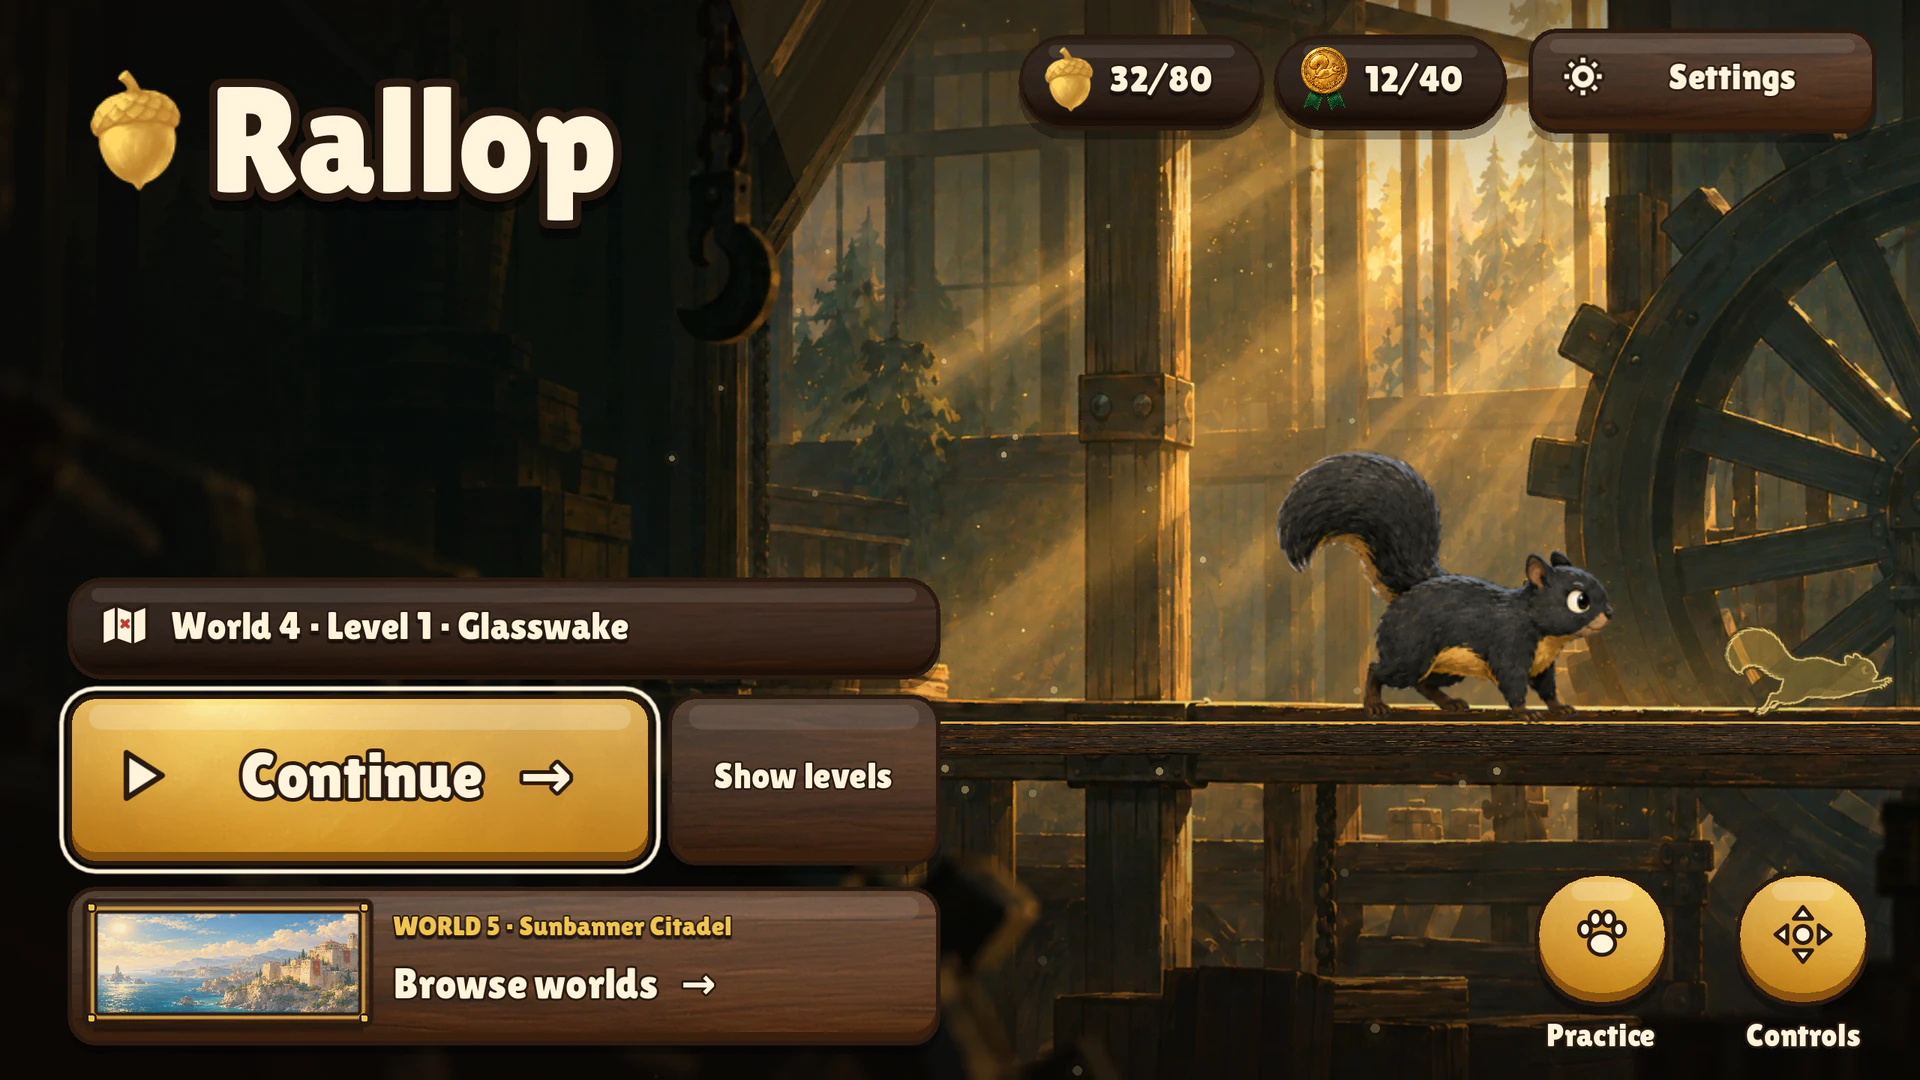
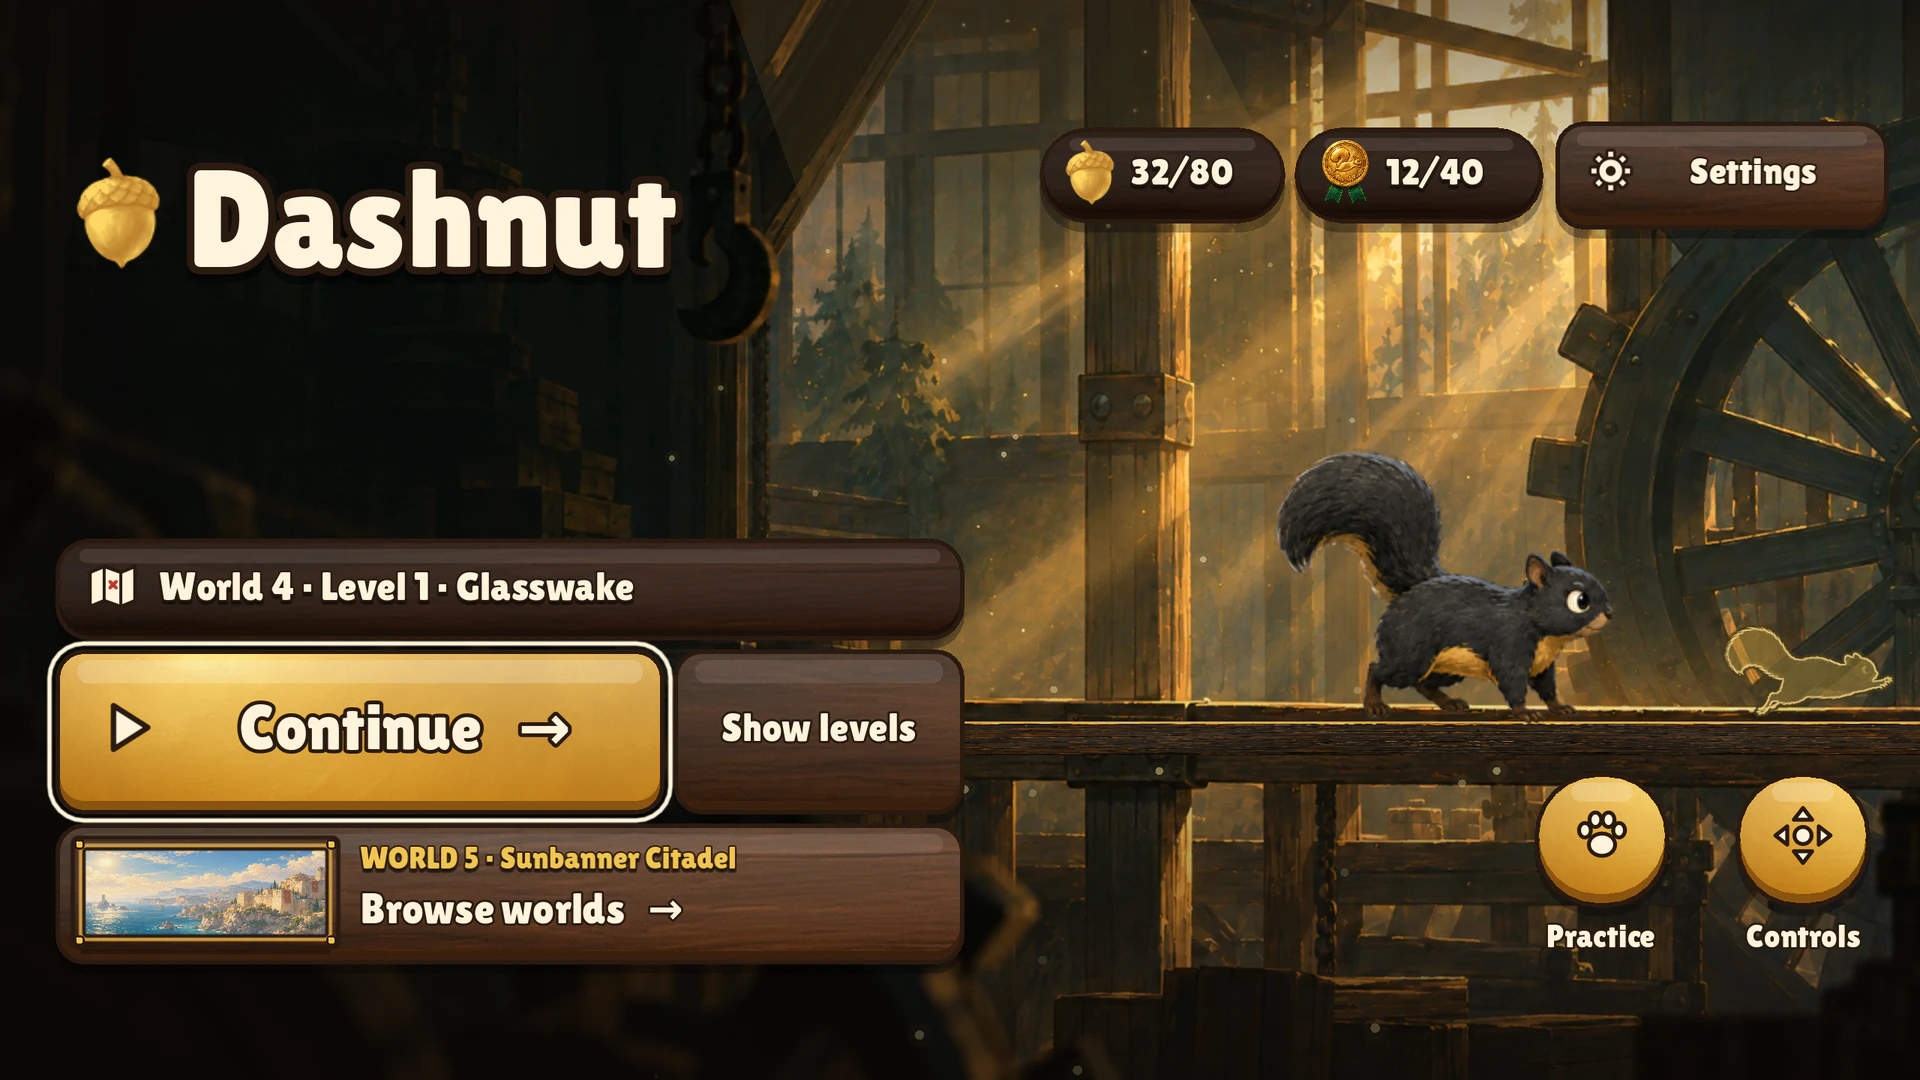
Rename the game from Rallop to Dashnut and add a proprietary license
Swaps the name in the site copy outputs (messages rebuilt), legal texts,
prompts, fact sheet, docs, site facts, manifest, Worker name, placeholder
domains and package ID. The title screenshot is recaptured with the new
logo. LICENSE.md matches the game repo's all rights reserved license.

diff --git a/src/lib/site.ts b/src/lib/site.ts
@@ -2,7 +2,7 @@
  * Facts about the game and its publisher, shared by every page (names and addresses, not copy; copy lives in messages/).
  * Keep in sync with docs/copy/FACTS.md and the legal texts in src/content/legal/.
  */
-export const GAME_NAME = 'Rallop';
+export const GAME_NAME = 'Dashnut';
 
 /** Public contact for support, privacy requests and the imprint */
 export const CONTACT_EMAIL = 'business@solo-stack.dev';
@@ -14,7 +14,7 @@ export const STUDIO = { name: 'Solo Stack', url: 'https://solo-stack.dev' } as c
 
 /**
  * Store listings. `null` until the game is live: the badges then render as "coming soon" without a link.
- * Google Play: https://play.google.com/store/apps/details?id=com.rallop.game (package `com.rallop.game`)
+ * Google Play: https://play.google.com/store/apps/details?id=com.dashnut.game (package `com.dashnut.game`)
  * App Store: https://apps.apple.com/app/id<numeric id>
  */
 export const STORE_URLS: { googlePlay: string | null; appStore: string | null } = {

diff --git a/vite.config.ts b/vite.config.ts
@@ -12,8 +12,8 @@ import { defineConfig, type Plugin } from 'vite';
 // `dev` and local `preview` leave it unset.
 // TODO(domain): replace the placeholder domain here and in wrangler.jsonc (`routes`) once it is registered.
 const origins: Record<string, string> = {
-	staging: 'https://staging.rallop.example',
-	production: 'https://rallop.example'
+	staging: 'https://staging.dashnut.example',
+	production: 'https://dashnut.example'
 };
 
 // enhanced-img encodes AVIF + WebP + a fallback, and the fallback is PNG for every image with alpha (JPEG otherwise):
@@ -22,7 +22,7 @@ const origins: Record<string, string> = {
 // resolves its URL through Vite too, so this covers both forms. An import that sets its own `format` is left alone.
 function enhancedImagesWithoutLegacyFallback(): Plugin {
 	return {
-		name: 'rallop:enhanced-img-webp-fallback',
+		name: 'dashnut:enhanced-img-webp-fallback',
 		enforce: 'pre',
 		resolveId(source, importer, options) {
 			const query = source.split('?')[1];

diff --git a/src/error.html b/src/error.html
@@ -4,7 +4,7 @@
 		<meta charset="utf-8" />
 		<meta name="viewport" content="width=device-width, initial-scale=1" />
 		<meta name="robots" content="noindex" />
-		<title>%sveltekit.status% · Rallop</title>
+		<title>%sveltekit.status% · Dashnut</title>
 		<style>
 			html {
 				background: #120d09;
@@ -41,6 +41,6 @@
 	</head>
 	<body>
 		<p>%sveltekit.status%</p>
-		<a href="/">Rallop</a>
+		<a href="/">Dashnut</a>
 	</body>
 </html>

diff --git a/docs/copy/site-prompt.md b/docs/copy/site-prompt.md
@@ -1,10 +1,10 @@
-You are the copywriter for the official website of the mobile game Rallop. The site is the game's home for Google Play and the App Store: one landing page plus a support page and legal pages. Visitors are players (and store reviewers) who want to know quickly what the game is and how it plays.
+You are the copywriter for the official website of the mobile game Dashnut. The site is the game's home for Google Play and the App Store: one landing page plus a support page and legal pages. Visitors are players (and store reviewers) who want to know quickly what the game is and how it plays.
 
 Do not use tools. Reply with JSON only, no markdown fences.
 
 {{FACTS}}
 
-Voice: playful, warm and confident, short and concrete like a good store listing. Speak to the player as "you" (German: du). No marketing clichés ("ultimate", "epic", "revolutionary", "addictive"), at most two exclamation marks in the whole English set, no emojis, no hyphens or dashes as punctuation (write natural sentences instead; words that need a hyphen in normal spelling are fine). Do not invent facts. Proper nouns stay unchanged in German: Rallop, The Mill, The Kitewoods, Frostwell Ruins, Bloomworks, Sunbanner Citadel, Find your feet, Prism, Google Play, App Store, Solo Stack.
+Voice: playful, warm and confident, short and concrete like a good store listing. Speak to the player as "you" (German: du). No marketing clichés ("ultimate", "epic", "revolutionary", "addictive"), at most two exclamation marks in the whole English set, no emojis, no hyphens or dashes as punctuation (write natural sentences instead; words that need a hyphen in normal spelling are fine). Do not invent facts. Proper nouns stay unchanged in German: Dashnut, The Mill, The Kitewoods, Frostwell Ruins, Bloomworks, Sunbanner Citadel, Find your feet, Prism, Google Play, App Store, Solo Stack.
 
 German is a natural adaptation, not a literal translation, and respects the same limits.
 
@@ -23,12 +23,12 @@ Site wide
 - site_footer_made_by: footer words before the link "Solo Stack", e.g. "A game by" (3 words)
 - site_footer_copyright: copyright line, must contain the placeholder {year} and the name Peter Ruß, e.g. "© {year} Peter Ruß"
 - store_badge_coming_soon: small label on the store badges while the game is not released (2 words)
-- store_badge_google_play_label: accessible label "Rallop on Google Play, coming soon" (8 words)
-- store_badge_app_store_label: accessible label "Rallop on the App Store, coming soon" (8 words)
+- store_badge_google_play_label: accessible label "Dashnut on Google Play, coming soon" (8 words)
+- store_badge_app_store_label: accessible label "Dashnut on the App Store, coming soon" (8 words)
 
 Home: meta
 
-- home_meta_title: HTML title of the homepage, must start with "Rallop" (8 words)
+- home_meta_title: HTML title of the homepage, must start with "Dashnut" (8 words)
 - home_meta_description: meta description for search and link previews (25 words, one or two sentences)
 - home_og_image_alt: alt text of the link preview image: the squirrel racing the golden ghost in The Mill (15 words)
 
@@ -37,7 +37,7 @@ Home: hero
 - home_hero_eyebrow: tiny label above the title, a platform and price hint (4 words)
 - home_hero_subtitle: the official subtitle; keep "Flying squirrel. Beat the ghost." in English and adapt it in German
 - home_hero_intro: two sentences that explain the game (35 words)
-- home_hero_image_alt: alt text of the hero screenshot: Rallop leaping through The Mill with the golden ghost just ahead (15 words)
+- home_hero_image_alt: alt text of the hero screenshot: Dashnut leaping through The Mill with the golden ghost just ahead (15 words)
 
 Home: screenshots section (store style shots with a big caption on each)
 
@@ -89,7 +89,7 @@ Home: closing call to action
 
 Support page
 
-- support_meta_title: HTML title, must contain "Rallop" (5 words)
+- support_meta_title: HTML title, must contain "Dashnut" (5 words)
 - support_meta_description: meta description (25 words)
 - support_title: page heading (2 words)
 - support_intro: one or two sentences on how to get help (30 words)

diff --git a/docs/PROJECT.md b/docs/PROJECT.md
@@ -1,8 +1,8 @@
-# Rallop website
+# Dashnut website
 
 ## Goal
 
-The public home of the game Rallop (`D:\repos\dash`) for its store listings. Both stores need a public privacy policy URL, Apple also needs a support URL, and a German publisher needs an imprint (§ 5 DDG). Beyond that the site should sell the game the way a store page does: what it is, how it looks, how it plays. Simple, fast, static.
+The public home of the game Dashnut (`D:\repos\dash`) for its store listings. Both stores need a public privacy policy URL, Apple also needs a support URL, and a German publisher needs an imprint (§ 5 DDG). Beyond that the site should sell the game the way a store page does: what it is, how it looks, how it plays. Simple, fast, static.
 
 Audience: players arriving from a store listing or a link, and store reviewers checking the policy and support pages.
 
@@ -30,7 +30,7 @@ All visitor facing text is generated with `gpt-6.1-sol` (see [AGENTS.md](../AGEN
 - Playful, warm and confident, short and concrete like a good store listing. No marketing clichés, no emoji, at most a couple of exclamation marks.
 - Natural phrasing **without hyphens or dashes** as punctuation.
 - **No invented facts.** Only what [copy/FACTS.md](copy/FACTS.md) states. In particular: no release dates, no "no ads" claims (ads are planned for 1.0), no download numbers, no languages beyond EN/DE.
-- Proper nouns stay unchanged in every language: Rallop, The Mill, The Kitewoods, Frostwell Ruins, Bloomworks, Sunbanner Citadel, Find your feet, Prism.
+- Proper nouns stay unchanged in every language: Dashnut, The Mill, The Kitewoods, Frostwell Ruins, Bloomworks, Sunbanner Citadel, Find your feet, Prism.
 
 Copy files: `docs/copy/site-*` (UI strings → `messages/`), `impressum-*`, `privacy-en-*`, `privacy-de-*` (→ `src/content/legal/`).
 
@@ -40,7 +40,7 @@ Captured from the real game with Godot 4.7.2 at 2560×1440 (content scale 1280×
 
 ## Open items (owner)
 
-- **Domain**: placeholder `rallop.example` in `vite.config.ts` and `wrangler.jsonc` (`TODO(domain)`).
+- **Domain**: placeholder `dashnut.example` in `vite.config.ts` and `wrangler.jsonc` (`TODO(domain)`).
 - **Store URLs**: `src/lib/site.ts` → `STORE_URLS`; then replace the generic badges with the official Google Play / App Store badge artwork.
 - **Ads**: before the ads build ships, update `docs/copy/FACTS.md` and the privacy prompt with the ad provider, regenerate both privacy texts, update the support FAQ answer about data, and add `static/app-ads.txt` (AdMob).
 - **Game links**: set `SUPPORT_URL` and `PRIVACY_URL` in the game's `game/presentation/about_menu.gd` to `/support` and `/privacy` on the final domain.

diff --git a/AGENTS.md b/AGENTS.md
@@ -1,6 +1,6 @@
 # AGENTS.md
 
-This repo is the official website of **Rallop**, the mobile game in `D:\repos\dash` (Godot, separate repo). The site is the game's home for Google Play and the App Store: a landing page with store style screenshots, a support page, the privacy policy and the imprint. Read [docs/PROJECT.md](docs/PROJECT.md) before changing pages or copy.
+This repo is the official website of **Dashnut**, the mobile game in `D:\repos\dash` (Godot, separate repo). The site is the game's home for Google Play and the App Store: a landing page with store style screenshots, a support page, the privacy policy and the imprint. Read [docs/PROJECT.md](docs/PROJECT.md) before changing pages or copy.
 
 ## Hard rule: public text comes from `gpt-6.1-sol`
 
@@ -19,7 +19,7 @@ SvelteKit 3 + Svelte 5 (runes, experimental `async`) on Cloudflare Workers, full
 
 - **Everything is static** (`export const prerender = true` in the root layout). If data loading or a form is ever needed, use SvelteKit remote functions (`query`, `prerender`, `command`, `form` in `*.remote.ts`) validated with valibot, not `+page.server.ts` loads or API routes.
 - Import from `src/lib` via the `#lib/*` subpath import (see `package.json` `imports`).
-- UI strings go through Paraglide messages in `messages/{locale}.json`; `src/lib/paraglide` is generated, never edit it. Game proper nouns (world and course names, "Rallop") stay in code.
+- UI strings go through Paraglide messages in `messages/{locale}.json`; `src/lib/paraglide` is generated, never edit it. Game proper nouns (world and course names, "Dashnut") stay in code.
 - Game facts and publisher details live in `src/lib/site.ts`; store URLs there switch the "coming soon" badges to links.
 - **Performance is a feature.** Images through enhanced-img (AVIF/WebP), animations cheap and paused under `prefers-reduced-motion`. Ask before adding a heavy dependency.
 - pnpm only. New packages are subject to a 5 day minimum release age (`pnpm-workspace.yaml`).

diff --git a/docs/copy/privacy-de-output.md b/docs/copy/privacy-de-output.md
@@ -2,7 +2,7 @@ Stand: 8. November 2026
 
 ## 1. Datenschutz auf einen Blick
 
-Diese Datenschutzerklärung gilt für Rallop Version 1.0 für Android über Google Play und für iOS über den App Store sowie für die offizielle Website, auf der diese Datenschutzerklärung bereitgestellt wird.
+Diese Datenschutzerklärung gilt für Dashnut Version 1.0 für Android über Google Play und für iOS über den App Store sowie für die offizielle Website, auf der diese Datenschutzerklärung bereitgestellt wird.
 
 - Das Spiel funktioniert vollständig offline. Es übermittelt mir als Entwickler keine personenbezogenen Daten oder Spieldaten.
 - Spielfortschritt, Rekorde, Wiederholungen deiner persönlichen Bestläufe und Einstellungen werden lokal auf deinem Gerät gespeichert. Abhängig von deinen Einstellungen kann dein Betriebssystem App-Daten in Sicherungen aufnehmen.
@@ -23,7 +23,7 @@ E-Mail: [business@solo-stack.dev](mailto:business@solo-stack.dev)
 
 Solo Stack ist mein Einpersonenstudio. Du kannst diese E-Mail-Adresse für alle Fragen und Anfragen zum Datenschutz nutzen.
 
-## 3. Daten in der Rallop-App
+## 3. Daten in der Dashnut-App
 
 ### Lokale Spieldaten
 
@@ -65,7 +65,7 @@ Die Infoansicht kann Links zur Supportseite oder zu dieser Datenschutzerklärung
 
 ## 4. Google Play und der App Store
 
-Wenn du Rallop über einen Store herunterlädst, verarbeitet der jeweilige Store Daten, beispielsweise im Zusammenhang mit deinem Store-Konto und deinem Downloadverlauf.
+Wenn du Dashnut über einen Store herunterlädst, verarbeitet der jeweilige Store Daten, beispielsweise im Zusammenhang mit deinem Store-Konto und deinem Downloadverlauf.
 
 Die Store-Betreiber sind eigenständige Verantwortliche. Für diese Verarbeitung gelten ihre jeweiligen Datenschutzerklärungen.
 

diff --git a/src/content/legal/privacy.de.md b/src/content/legal/privacy.de.md
@@ -6,7 +6,7 @@ Stand: 8. November 2026
 
 ## 1. Datenschutz auf einen Blick
 
-Diese Datenschutzerklärung gilt für Rallop Version 1.0 für Android über Google Play und für iOS über den App Store sowie für die offizielle Website, auf der diese Datenschutzerklärung bereitgestellt wird.
+Diese Datenschutzerklärung gilt für Dashnut Version 1.0 für Android über Google Play und für iOS über den App Store sowie für die offizielle Website, auf der diese Datenschutzerklärung bereitgestellt wird.
 
 - Das Spiel funktioniert vollständig offline. Es übermittelt mir als Entwickler keine personenbezogenen Daten oder Spieldaten.
 - Spielfortschritt, Rekorde, Wiederholungen deiner persönlichen Bestläufe und Einstellungen werden lokal auf deinem Gerät gespeichert. Abhängig von deinen Einstellungen kann dein Betriebssystem App-Daten in Sicherungen aufnehmen.
@@ -27,7 +27,7 @@ E-Mail: [business@solo-stack.dev](mailto:business@solo-stack.dev)
 
 Solo Stack ist mein Einpersonenstudio. Du kannst diese E-Mail-Adresse für alle Fragen und Anfragen zum Datenschutz nutzen.
 
-## 3. Daten in der Rallop-App
+## 3. Daten in der Dashnut-App
 
 ### Lokale Spieldaten
 
@@ -69,7 +69,7 @@ Die Infoansicht kann Links zur Supportseite oder zu dieser Datenschutzerklärung
 
 ## 4. Google Play und der App Store
 
-Wenn du Rallop über einen Store herunterlädst, verarbeitet der jeweilige Store Daten, beispielsweise im Zusammenhang mit deinem Store-Konto und deinem Downloadverlauf.
+Wenn du Dashnut über einen Store herunterlädst, verarbeitet der jeweilige Store Daten, beispielsweise im Zusammenhang mit deinem Store-Konto und deinem Downloadverlauf.
 
 Die Store-Betreiber sind eigenständige Verantwortliche. Für diese Verarbeitung gelten ihre jeweiligen Datenschutzerklärungen.
 

diff --git a/docs/copy/privacy-en-output.md b/docs/copy/privacy-en-output.md
@@ -2,7 +2,7 @@ Last updated: 8 November 2026
 
 ## 1. Privacy at a glance
 
-This policy covers Rallop version 1.0 for Android via Google Play and iOS via the App Store, and the official website that hosts this policy.
+This policy covers Dashnut version 1.0 for Android via Google Play and iOS via the App Store, and the official website that hosts this policy.
 
 - The game works fully offline. It sends no personal data or gameplay data to the developer.
 - Progress, records, personal best replays and settings are stored locally on your device. Your operating system may include app data in backups, depending on your settings.
@@ -23,7 +23,7 @@ Email: [business@solo-stack.dev](mailto:business@solo-stack.dev)
 
 Solo Stack is my one person studio. You can use this email address for all privacy questions and requests.
 
-## 3. Data in the Rallop app
+## 3. Data in the Dashnut app
 
 ### Local game data
 
@@ -65,7 +65,7 @@ The About screen may open links to the support page or this policy in your brows
 
 ## 4. Google Play and the App Store
 
-Downloading Rallop through a store involves processing by that store, for example in connection with your store account and download history.
+Downloading Dashnut through a store involves processing by that store, for example in connection with your store account and download history.
 
 The store operators are independent controllers. Their respective privacy policies apply to that processing.
 

diff --git a/src/content/legal/privacy.en.md b/src/content/legal/privacy.en.md
@@ -6,7 +6,7 @@ Last updated: 8 November 2026
 
 ## 1. Privacy at a glance
 
-This policy covers Rallop version 1.0 for Android via Google Play and iOS via the App Store, and the official website that hosts this policy.
+This policy covers Dashnut version 1.0 for Android via Google Play and iOS via the App Store, and the official website that hosts this policy.
 
 - The game works fully offline. It sends no personal data or gameplay data to the developer.
 - Progress, records, personal best replays and settings are stored locally on your device. Your operating system may include app data in backups, depending on your settings.
@@ -27,7 +27,7 @@ Email: [business@solo-stack.dev](mailto:business@solo-stack.dev)
 
 Solo Stack is my one person studio. You can use this email address for all privacy questions and requests.
 
-## 3. Data in the Rallop app
+## 3. Data in the Dashnut app
 
 ### Local game data
 
@@ -69,7 +69,7 @@ The About screen may open links to the support page or this policy in your brows
 
 ## 4. Google Play and the App Store
 
-Downloading Rallop through a store involves processing by that store, for example in connection with your store account and download history.
+Downloading Dashnut through a store involves processing by that store, for example in connection with your store account and download history.
 
 The store operators are independent controllers. Their respective privacy policies apply to that processing.
 

diff --git a/docs/copy/FACTS.md b/docs/copy/FACTS.md
@@ -1,13 +1,13 @@
 # Verified facts for copy prompts
 
-Paste this block into every copy prompt. Source: the game repo (`D:\repos\dash`: README, `docs/Rallop-Game-Design.md`,
+Paste this block into every copy prompt. Source: the game repo (`D:\repos\dash`: README, `docs/Dashnut-Game-Design.md`,
 `game/presentation/course_catalog.gd`, `game/i18n/en.po`, `export_presets.cfg`) and the owner's publisher record,
 checked 2026-11-08. Change a fact here first, then regenerate the copy that uses it.
 
 ```text
 FACTS (use only these, invent nothing):
-- Game name: Rallop. Official subtitle: "Flying squirrel. Beat the ghost."
-- Genre: a 2D time trial auto runner for phones, played in landscape. Rallop is a small flying squirrel with black fur and a gold belly who always runs to the right.
+- Game name: Dashnut. Official subtitle: "Flying squirrel. Beat the ghost."
+- Genre: a 2D time trial auto runner for phones, played in landscape. Dashnut is a small flying squirrel with black fur and a gold belly who always runs to the right.
 - Each course is short (about 45 seconds). The clock is the opponent. A golden ghost runs a fast line ahead of you; match or beat its time to earn gold. The gold ghost can be hidden in Settings; a ghost of your own personal best can be switched on.
 - Medals: bronze, silver and gold per course, plus local personal best times.
 - Five worlds with eight courses each, plus the tutorial "Find your feet":

diff --git a/docs/copy/site-fix-imprint-prompt.md b/docs/copy/site-fix-imprint-prompt.md
@@ -1,4 +1,4 @@
-You are the copywriter for the official website of the mobile game Rallop. One string of the site needs a correction. Do not use tools. Reply with JSON only, no markdown fences.
+You are the copywriter for the official website of the mobile game Dashnut. One string of the site needs a correction. Do not use tools. Reply with JSON only, no markdown fences.
 
 {{FACTS}}
 
@@ -6,6 +6,6 @@ Voice: plain, short and concrete; no hyphens or dashes as punctuation; no emojis
 
 Correction:
 
-1. imprint_meta_description (English and German, about 15 words): meta description of the imprint page (German: Impressum), the legal information for Rallop and Solo Stack, the one person studio of Peter Ruß. The previous version named a city; the description must not name any city, region or address. Naming the country (Germany, Deutschland) is fine but optional.
+1. imprint_meta_description (English and German, about 15 words): meta description of the imprint page (German: Impressum), the legal information for Dashnut and Solo Stack, the one person studio of Peter Ruß. The previous version named a city; the description must not name any city, region or address. Naming the country (Germany, Deutschland) is fine but optional.
 
 Output: {"en": {"imprint_meta_description": "..."}, "de": {"imprint_meta_description": "..."}}
